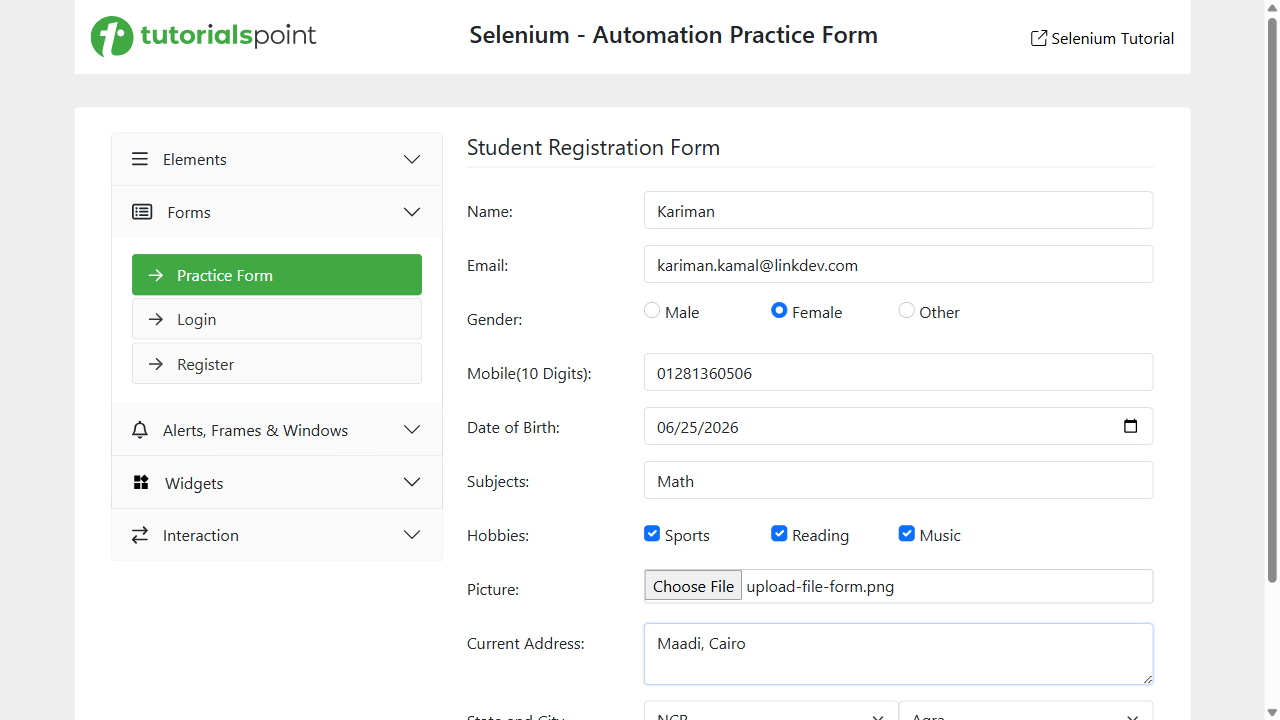
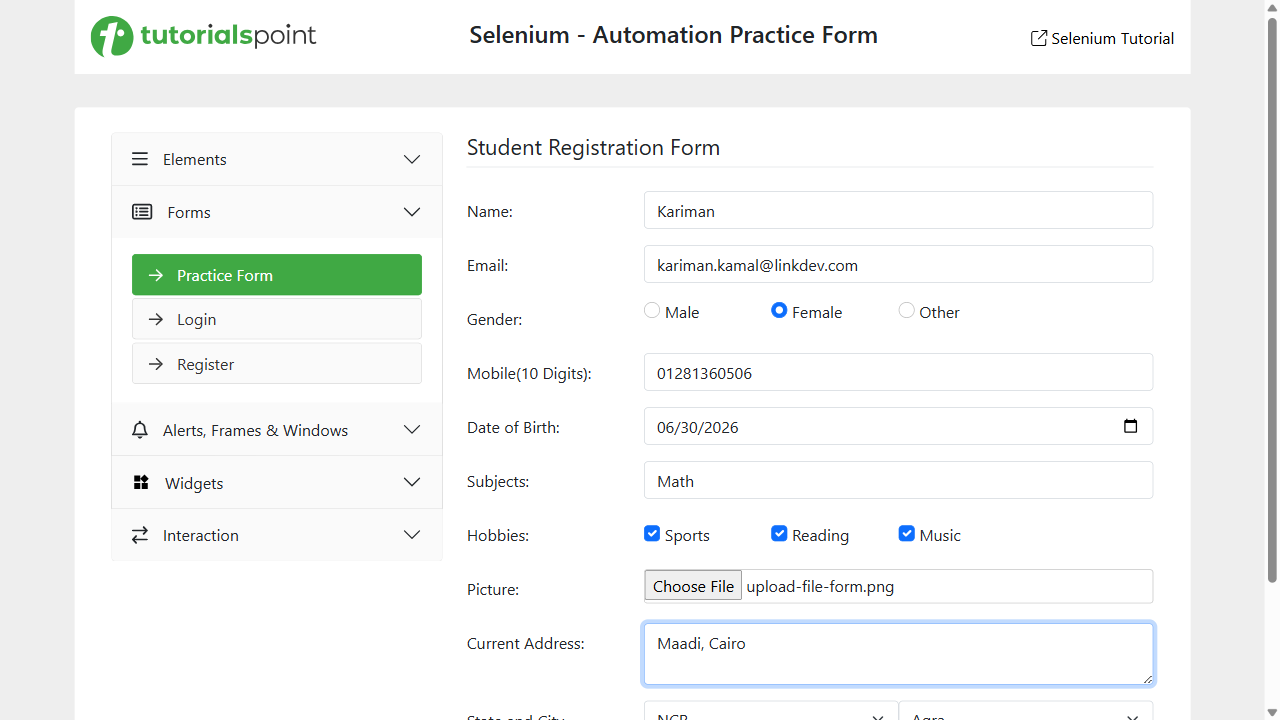
Update Playwright automation exercises

Changed region(s): [[0.5, 0.8556, 0.9062, 0.9778], [0.5312, 0.5806, 0.5625, 0.6111]]

diff --git a/tests/automation-exercises.spec.ts b/tests/automation-exercises.spec.ts
@@ -1,4 +1,5 @@
 import { test, expect , Page} from '@playwright/test';
+import { testData } from '../tests/Test';
 
 const BASE_URL = 'https://www.tutorialspoint.com/selenium/practice';
 
@@ -7,7 +8,26 @@ async function goToPage(page: Page, pageName: string) {
         waitUntil: 'domcontentloaded'
     });
 }
+function getDateMonthsAgo(months: number): string {
+    const today = new Date();
 
+    const year = today.getFullYear();
+    const month = today.getMonth() - months;
+    const day = today.getDate();
+
+    const targetDate = new Date(year, month, 1);
+
+    const lastDayOfTargetMonth =
+        new Date(targetDate.getFullYear(), targetDate.getMonth() + 1, 0).getDate();
+
+    targetDate.setDate(Math.min(day, lastDayOfTargetMonth));
+
+    const yyyy = targetDate.getFullYear();
+    const mm = String(targetDate.getMonth() + 1).padStart(2, '0');
+    const dd = String(targetDate.getDate()).padStart(2, '0');
+
+    return `${yyyy}-${mm}-${dd}`;
+}
 
 
 test('Task 103 - Radio Button', async ({ page }) => {
@@ -41,6 +61,17 @@ test('Task 104 - Web Tables', async ({ page }) => {
     await deparment.fill('QC');
     await page.screenshot({ path: 'web-table-form.png' });
     await page.locator('input[type="submit"][value="Login"]').click();
+    
+
+const deleteButtons = page.locator('a.delete-wrap');
+
+const count = await deleteButtons.count();
+
+for (let i = 0; i < count; i++) {
+    await deleteButtons.first().click();
+}
+
+await expect(deleteButtons).toHaveCount(0);
 
 });
 
@@ -75,7 +106,8 @@ test('Task 107 - Upload and Download', async ({ page }) => {
 
     await goToPage(page, 'upload-download.php');
 const UploadButton = page.locator('#uploadFile');
-await UploadButton.setInputFiles('D:\\PlaywrightAutomation\\test.txt');
+await UploadButton.setInputFiles(testData.uploadFilePath);
+await expect(UploadButton).toHaveValue(/test\.txt/);
  await page.screenshot({ path: 'upload-file-form.png' });
 });
 
@@ -108,7 +140,10 @@ await femaleRadio.check();
 const mobile = page.locator('#mobile');
     await mobile.fill('01281360506');
 const Birthdate = page.locator('#dob');
-    await Birthdate.fill('2026-06-25');
+
+const twoMonthsAgo = getDateMonthsAgo(2);
+
+await Birthdate.fill(twoMonthsAgo);
 const subject = page.locator('#subjects');
     await subject.fill('Math');
 

diff --git a/tests/Test.ts b/tests/Test.ts
@@ -1,0 +1,5 @@
+export const testData = {
+
+
+    uploadFilePath: 'D:\\PlaywrightAutomation\\test.txt'
+};
